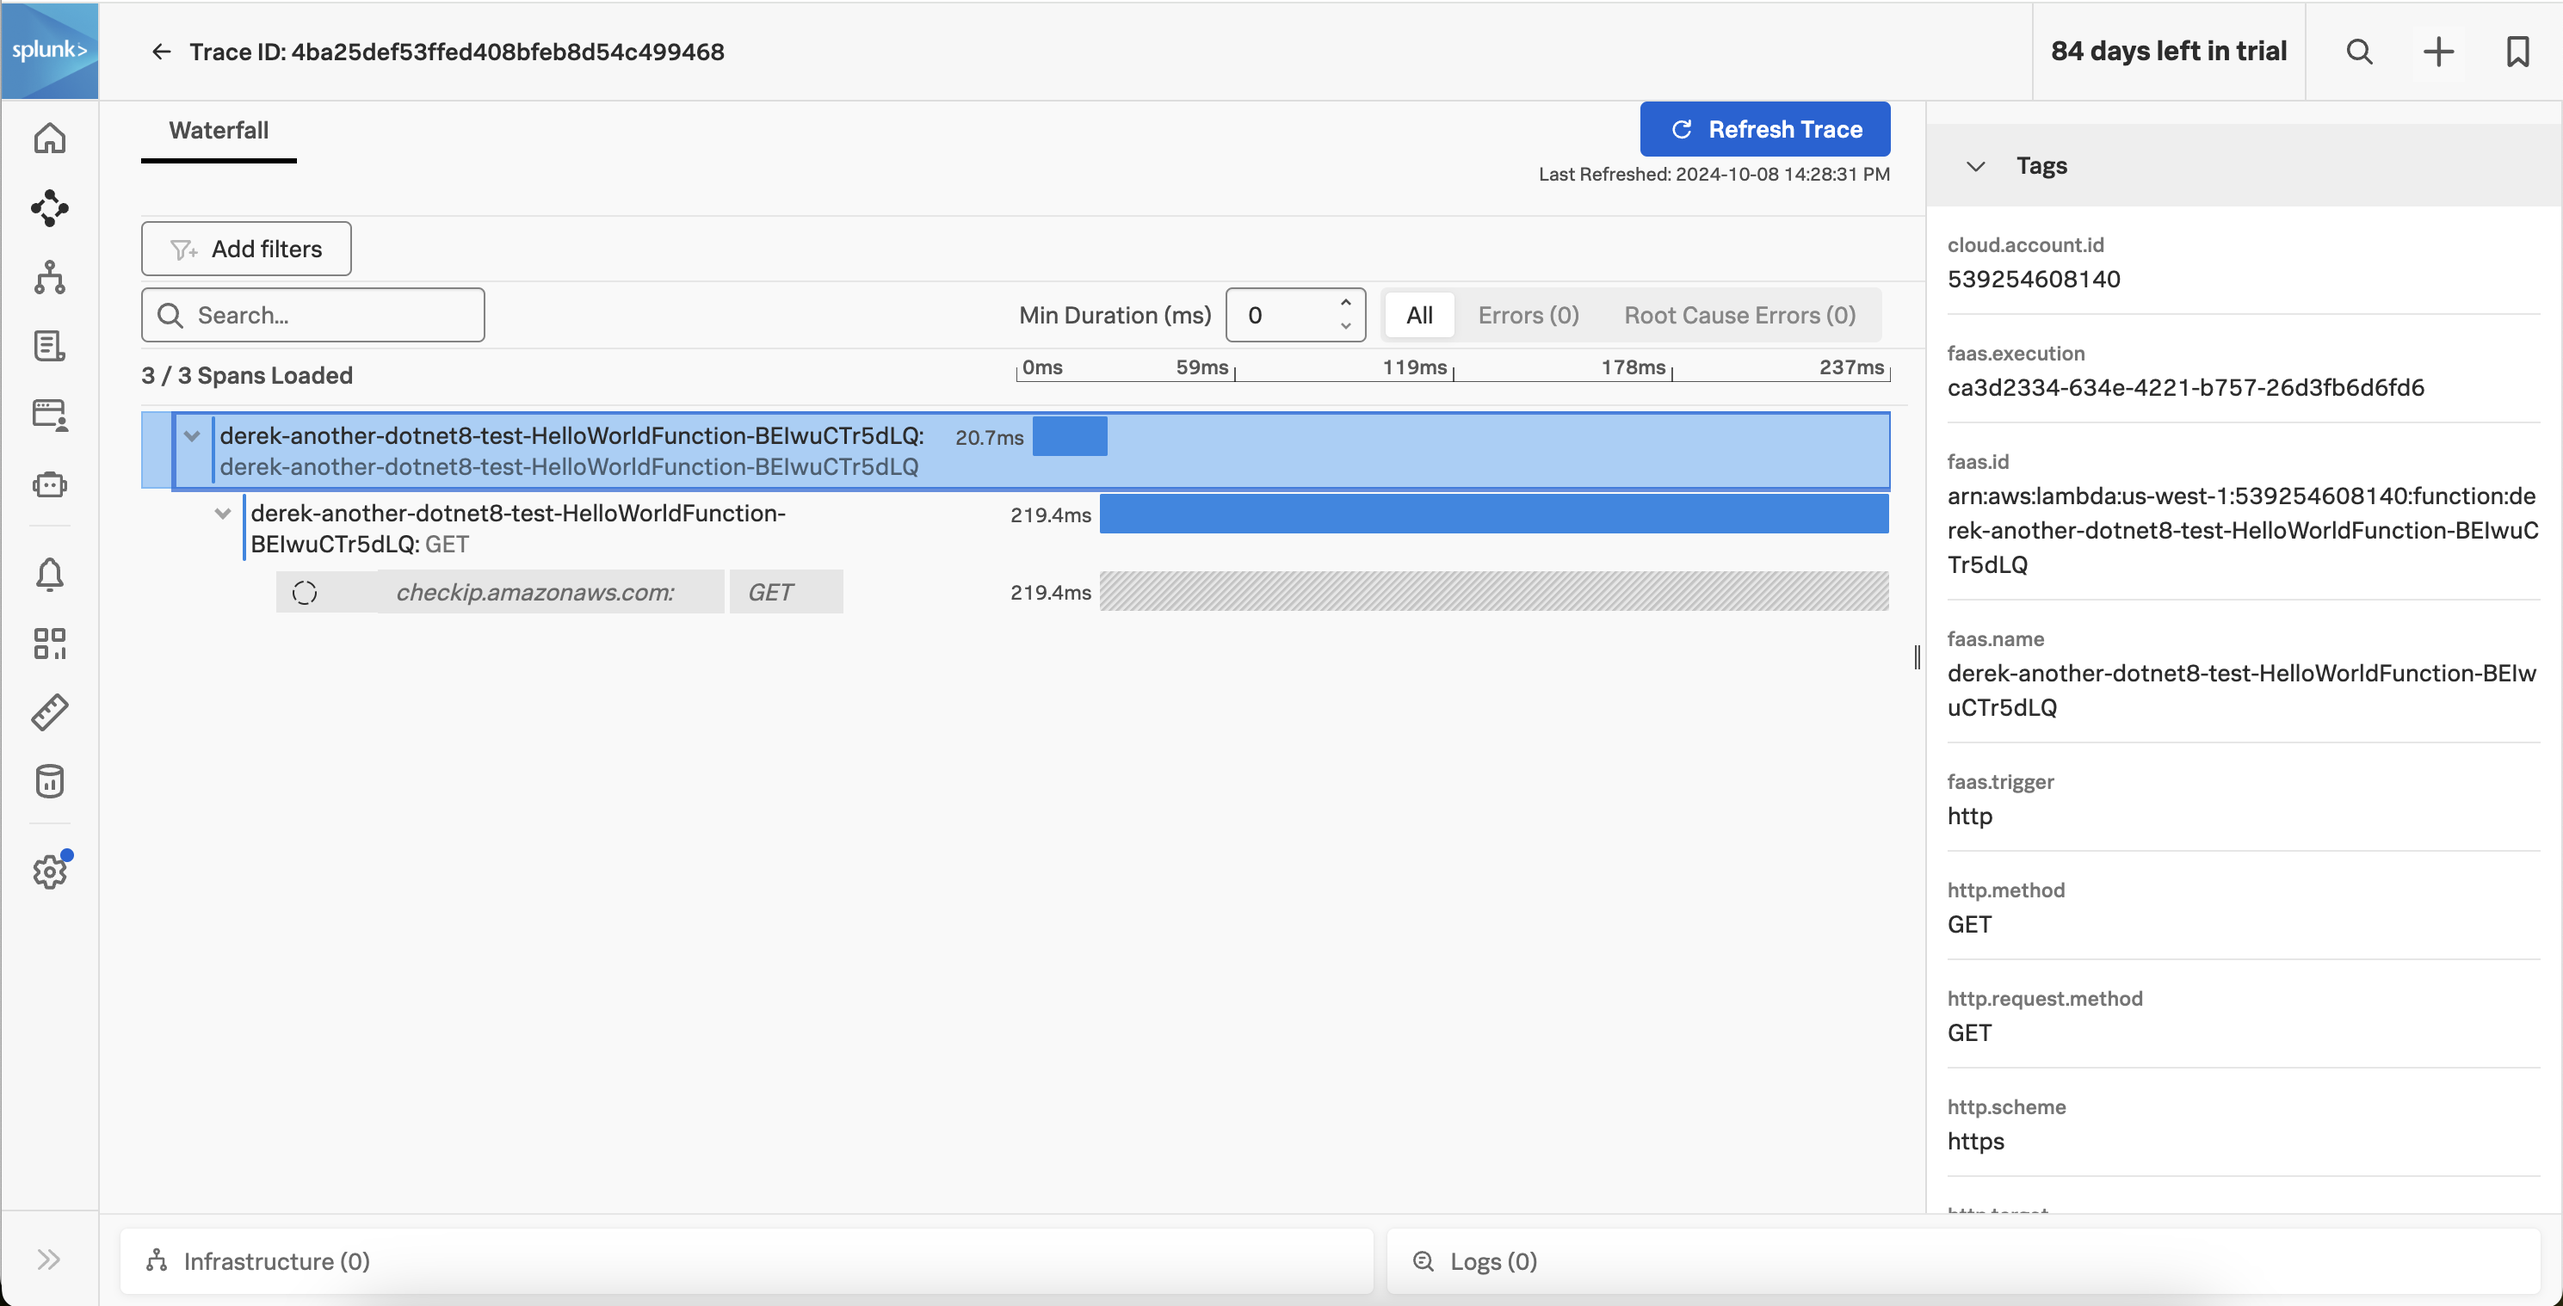
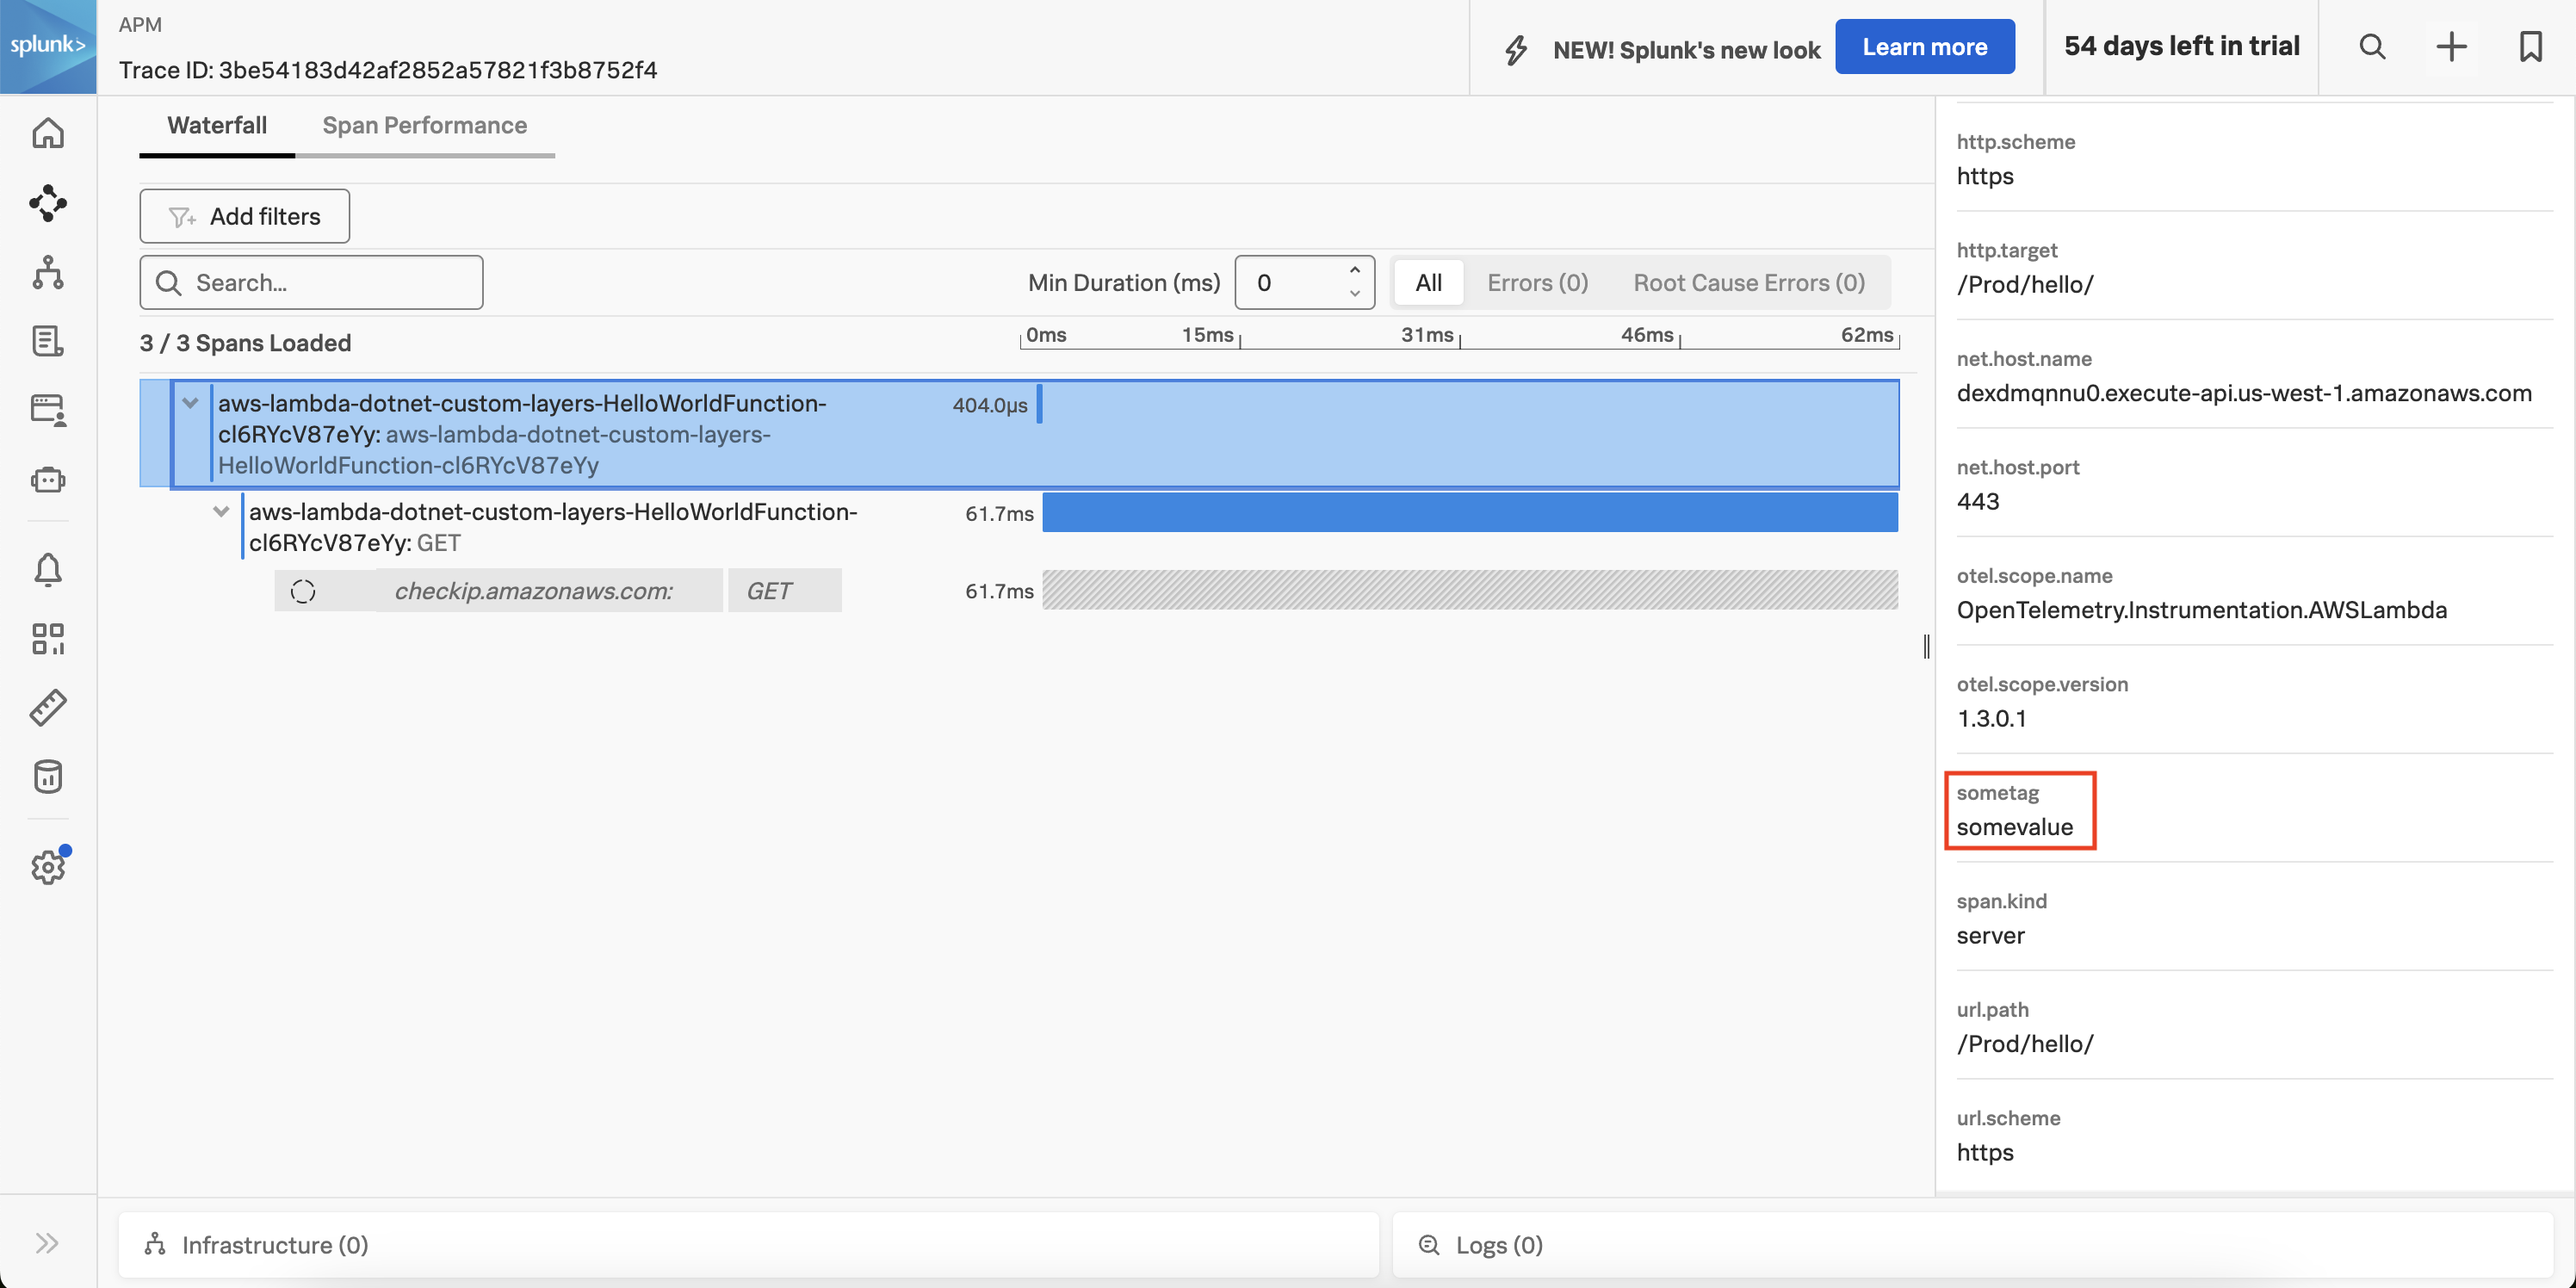
updated the .net lambda layer example

diff --git a/instrumentation/dotnet/aws-lambda-with-custom-layer/src/SplunkOpenTelemetryLambdaHelper/SplunkTelemetryConfigurator.cs b/instrumentation/dotnet/aws-lambda-with-custom-layer/src/SplunkOpenTelemetryLambdaHelper/SplunkTelemetryConfigurator.cs
@@ -64,11 +64,9 @@ namespace SplunkTelemetry
            return loggerFactory.CreateLogger<T>();
        }
 
-       public static void AddSpanAttributes(APIGatewayProxyRequest apigProxyEvent, ILambdaContext context)
+       public static void AddSpanAttributes(APIGatewayProxyRequest apigProxyEvent, ILambdaContext context, Activity activity)
        {
            // Add span attributes using the APIGatewayProxyRequest and ILambdaContext
-           // if needed
-           var activity = Activity.Current;
            activity?.SetTag("sometag", "somevalue");
         }
    }

diff --git a/instrumentation/dotnet/aws-lambda-with-custom-layer/src/HelloWorld/Function.cs b/instrumentation/dotnet/aws-lambda-with-custom-layer/src/HelloWorld/Function.cs
@@ -56,8 +56,10 @@ public class Function
     {
         _logger.LogInformation("In the function handler");
 
+        var activity = Activity.Current;
+
         // add span attributes based on the provide API gateway event and Lambda context
-        SplunkTelemetryConfigurator.AddSpanAttributes(apigProxyEvent, context);
+        SplunkTelemetryConfigurator.AddSpanAttributes(apigProxyEvent, context, activity);
 
         var location = await GetCallingIP();
 

diff --git a/instrumentation/dotnet/aws-lambda-with-custom-layer/README.md b/instrumentation/dotnet/aws-lambda-with-custom-layer/README.md
@@ -90,11 +90,55 @@ when creating the layer, to ensure the layer includes SplunkOpenTelemetryLambdaL
 It should respond with something like the following: 
 
 ````
-Upload complete to s3://splunk-opentelemetry-lambda-layer-example/SplunkOpenTelemetryLambdaLayer-638665375222018560/packages.zip
-Layer publish with arn arn:aws:lambda:us-west-1:539254608140:layer:SplunkOpenTelemetryLambdaLayer:3
+Upload complete to s3://splunk-opentelemetry-lambda-layer-example/SplunkOpenTelemetryLambdaLayer-638665871802266230/packages.zip
+Layer publish with arn arn:aws:lambda:us-west-1:539254608140:layer:SplunkOpenTelemetryLambdaLayer:4
 ````
 
 Make a note of the ARN as we'll need it below. 
+
+### Add the Splunk OpenTelemetry Collector and Metrics Extension layers
+
+Our example deploys the Splunk distribution of the OpenTelemetry collector
+to a separate layer within the lambda function.  Lookup the ARN for your
+region in Step 6 in [this document](https://docs.splunk.com/observability/en/gdi/get-data-in/serverless/aws/otel-lambda-layer/instrumentation/lambda-language-layers.html#install-the-aws-lambda-layer-for-your-language).
+
+Let's make a copy of the template.yaml.base file:
+
+````
+cp template.yaml.base template.yaml
+````
+
+Then, open the template.yaml file and add the ARN there.  For example,
+here's the ARN for us-west-1:
+
+````
+      Layers:
+        - arn:aws:lambda:us-west-1:254067382080:layer:splunk-apm-collector:10
+````
+
+Optionally, we can also add the Splunk Metrics Extension Layer to the template.yaml file.
+Lookup the ARN for your
+region in Step 7 in [this document](https://docs.splunk.com/observability/en/gdi/get-data-in/serverless/aws/otel-lambda-layer/instrumentation/lambda-language-layers.html#install-the-aws-lambda-layer-for-your-language).
+
+````
+      Layers:
+        - arn:aws:lambda:us-west-1:254067382080:layer:splunk-apm-collector:10
+        - arn:aws:lambda:us-west-1:254067382080:layer:splunk-lambda-metrics:10
+````
+
+### Add the Splunk Observability Cloud Access Token and Realm
+
+We'll also need to specify the realm and access token for the target
+Splunk Observability Cloud environment.  This goes in the template.yaml
+file as well:
+
+````
+  Environment: 
+    Variables:
+      SPLUNK_ACCESS_TOKEN: <access token>
+      SPLUNK_REALM: us1
+      OTEL_RESOURCE_ATTRIBUTES: deployment.environment=test
+````
 
 ### Update the Lambda Function 
 
@@ -125,34 +169,48 @@ We also want to modify the template.yaml file to include the Lambda layer:
 
 ````
       Layers:
-        - arn:aws:lambda:us-west-1:539254608140:layer:SplunkOpenTelemetryLambdaLayer:3
+        - arn:aws:lambda:us-west-1:539254608140:layer:SplunkOpenTelemetryLambdaLayer:4
         - ...
 ````
 
 ### Build and Deploy Lambda Function
 
-We can build and deploy the Lambda function with the following command: 
+We can build the Lambda function with the following command: 
 
 ````
+cd splunk-opentelemetry-examples/instrumentation/dotnet/aws-lambda-with-custom-layer/src/HelloWorld
+dotnet build
+````
+
+We can then deploy the Lambda function with the following command: 
+
+````
+cd splunk-opentelemetry-examples/instrumentation/dotnet/aws-lambda-with-custom-layer/
 dotnet lambda deploy-serverless --region <MY_REGION> -t template.yaml -sb <MY_BUCKET_NAME>
 ````
 
 My exact command was: 
 
 ````
+cd splunk-opentelemetry-examples/instrumentation/dotnet/aws-lambda-with-custom-layer/
 dotnet lambda deploy-serverless --region us-west-1 -t template.yaml -sb splunk-opentelemetry-lambda-layer-example
 ````
+
+When prompted, I used `aws-lambda-dotnet-custom-layers` for the CloudFormation stack name. 
 
 Note that the `DOTNET_SHARED_STORE` environment variable was automatically added to the Lambda function 
 and set to `/opt/dotnetcore/store/`: 
 
 ![Lambda Environment Variables](./images/environment-variables.png)
 
+This tells the .NET Core runtime in Lambda where to look for the NuGet assemblies from the layer.
+
 Note also that the size of the Lambda function has been reduced from 3.4 MB to just 29 kB, since the bulk of the 
-assemblies it depends on have been moved to the Lambda layer: 
+assemblies it depends on have been moved to the layer: 
 
 ![Code Properties](./images/code-properties.png)
 
+When we invoke the Lambda function, we can see that traces have been captured in Splunk Observability Cloud, 
+which include the tag that was added via the SplunkTelemetryConfigurator class: 
 
-
-
+![Trace with tag](./images/trace.png)
